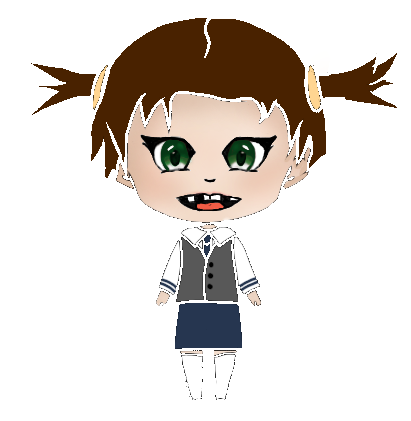
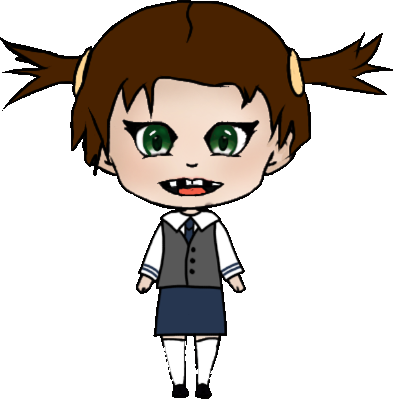
Update Sylla Bella character image with background removed version

Changed region(s): [[0.0, 0.0, 1.0, 1.0]]

diff --git a/public/images/characters/process_sylla_bella.py b/public/images/characters/process_sylla_bella.py
@@ -1,39 +1,74 @@
 import os
 from PIL import Image
+from collections import deque
 
 def main():
-    img_path = r"C:\Users\tipid\.gemini\antigravity\brain\e3a14a04-1099-4b5b-8d6b-63dfaa24c2d9\media__1780152891348.png"
+    img_path = r"C:\Users\tipid\.gemini\antigravity\brain\5f4af748-dbdf-42a9-bd23-fe76b33e3b7b\media__1780933516807.png"
     if not os.path.exists(img_path):
         print(f"Error: {img_path} not found")
         return
 
-    im = Image.open(img_path)
-    rgba = im.convert("RGBA")
+    img = Image.open(img_path)
+    rgba = img.convert("RGBA")
     w, h = rgba.size
     px = rgba.load()
+    
+    # 1. Flood fill from the edges to identify the background pixels
+    queue = deque()
+    visited = set()
+    
+    # Seed with all border pixels
+    for x in range(w):
+        queue.append((x, 0))
+        queue.append((x, h-1))
+        visited.add((x, 0))
+        visited.add((x, h-1))
+    for y in range(h):
+        queue.append((0, y))
+        queue.append((w-1, y))
+        visited.add((0, y))
+        visited.add((w-1, y))
+        
+    # Get corner colors as seed colors for the background
+    corner_colors = [px[0,0], px[w-1,0], px[0,h-1], px[w-1,h-1]]
+    
+    # Check color distance.
+    def is_bg_color(color):
+        r, g, b, a = color
+        # Background range: R: 15-60, G: 12-50, B: 10-50.
+        if not (15 <= r <= 60 and 12 <= g <= 50 and 10 <= b <= 50):
+            return False
+        # Do not fill if it is very dark (outlines or shoes)
+        if r < 15 and g < 15 and b < 15:
+            return False
+        return True
 
-    # The background is white (255, 255, 255)
-    def is_background(r, g, b, a):
-        if a < 10:
-            return True
-        # Check proximity to white (255, 255, 255)
-        if r > 240 and g > 240 and b > 240:
-            return True
-        return False
-
-    # Create a new image to make background transparent
+    bg_mask = [[False for _ in range(h)] for _ in range(w)]
+    
+    while queue:
+        cx, cy = queue.popleft()
+        color = px[cx, cy]
+        if is_bg_color(color):
+            bg_mask[cx][cy] = True
+            for dx, dy in [(-1,0), (1,0), (0,-1), (0,1)]:
+                nx, ny = cx + dx, cy + dy
+                if 0 <= nx < w and 0 <= ny < h:
+                    if (nx, ny) not in visited:
+                        visited.add((nx, ny))
+                        queue.append((nx, ny))
+                        
+    # 2. Create the transparent image
     transparent_img = Image.new("RGBA", (w, h))
     t_px = transparent_img.load()
-
+    
     for x in range(w):
         for y in range(h):
-            r, g, b, a = px[x, y]
-            if is_background(r, g, b, a):
+            if bg_mask[x][y]:
                 t_px[x, y] = (0, 0, 0, 0)
             else:
-                t_px[x, y] = (r, g, b, a)
-
-    # Now auto-crop to its tight visible bounding box
+                t_px[x, y] = px[x, y]
+                
+    # 3. Auto-crop to its tight visible bounding box
     min_x, min_y = w, h
     max_x, max_y = -1, -1
     for x in range(w):
@@ -43,12 +78,12 @@ def main():
                 max_x = max(max_x, x)
                 min_y = min(min_y, y)
                 max_y = max(max_y, y)
-
+                
     if max_x >= min_x and max_y >= min_y:
         cropped_sprite = transparent_img.crop((min_x, min_y, max_x + 1, max_y + 1))
     else:
         cropped_sprite = transparent_img
-
+        
     output_path = r"public/images/characters/syllabella-1.png"
     cropped_sprite.save(output_path, optimize=True)
     print(f"Saved Sylla Bella sprite to {output_path} with size {cropped_sprite.size}")
